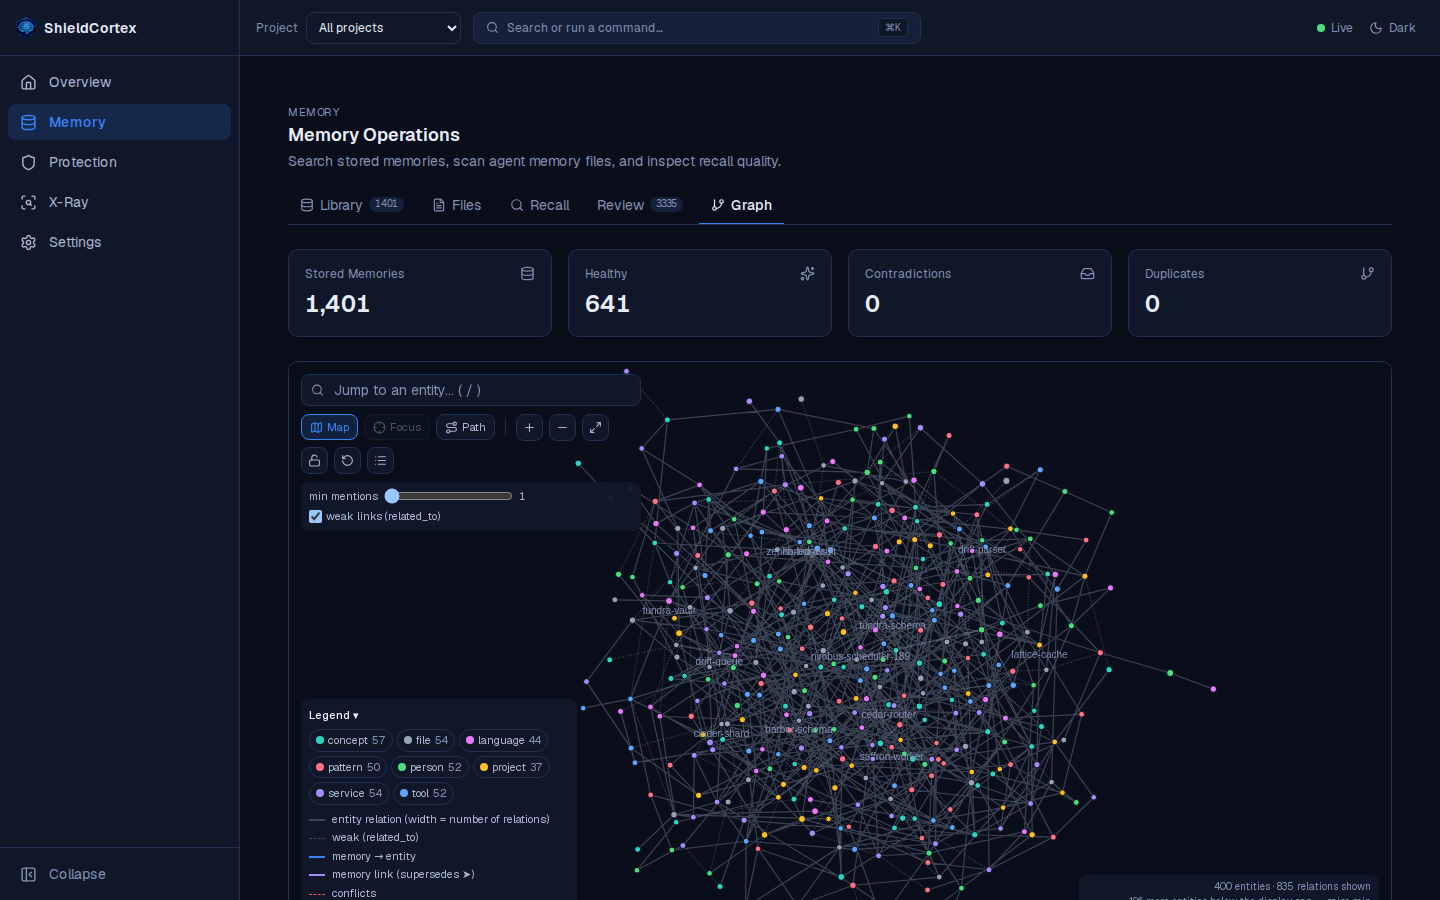
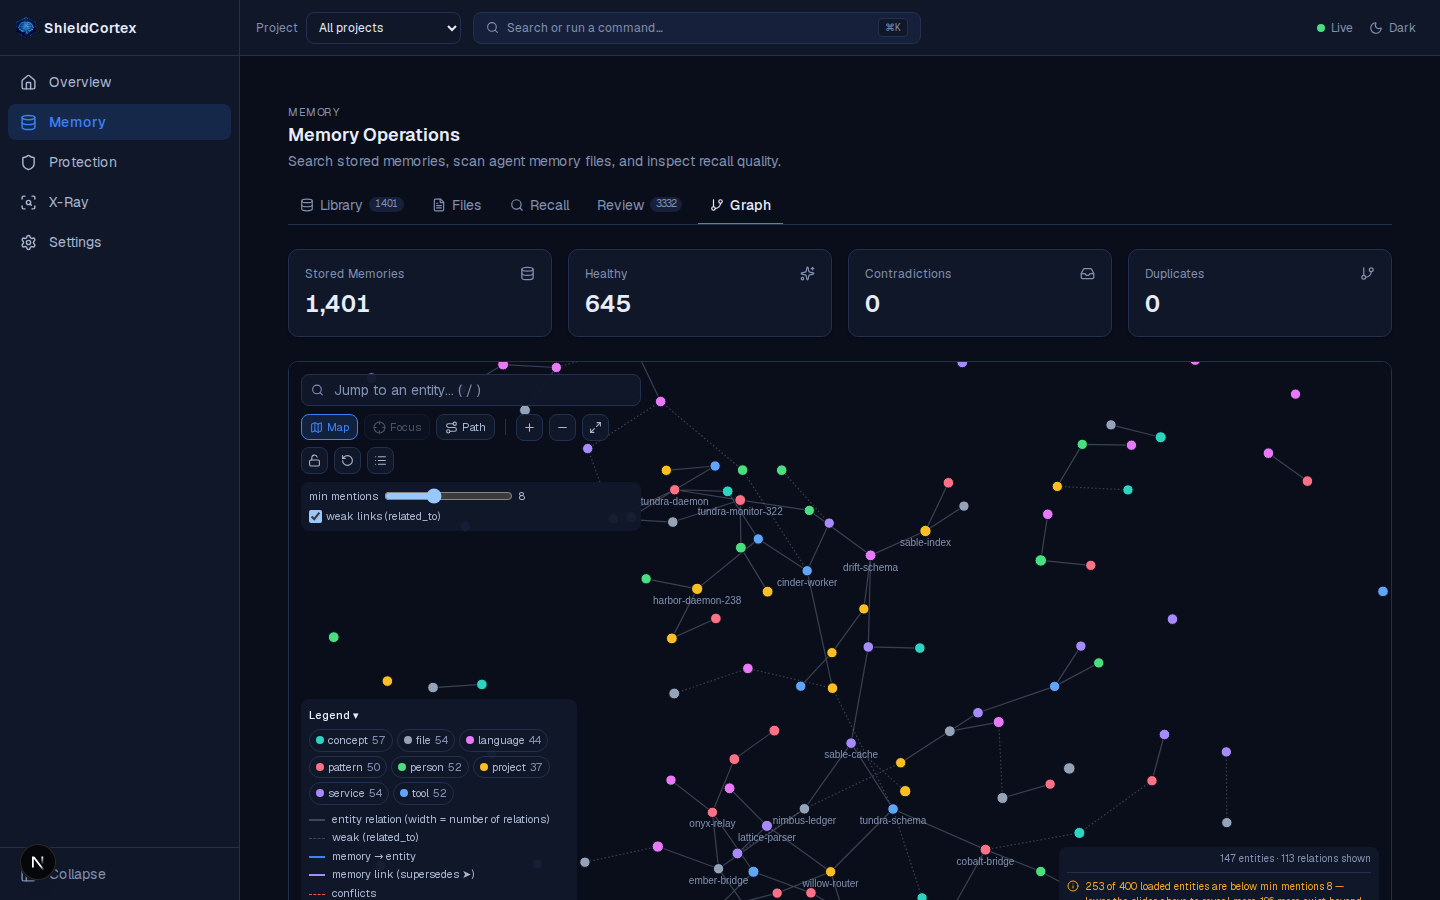
feat(dashboard-v2): step 3 polish — readable default Map, docked node list
Parent observed step3/graph-map-light.png: Map at 400 entities (minMentions=1)
was a hairball — ~3px nodes, overlapping labels, floating node list covering
canvas. Fixes:

- computeDefaultMinMentions (lib/graph/transforms.ts): derives the default
  Map threshold from the loaded entities' real memoryCount distribution
  (sorted desc, value at the target band's middle rank) instead of a fixed
  1, targeting ~120-150 visible entities. On the shipped fixture (400 loaded
  of 600 total): threshold 8 -> 147 shown. Only the default — the slider
  still overrides once touched. Unit tested (band-clamped default, real
  in-band value, no-op when already small).
- Entity node radius floor raised 3.5px -> 5.5px; label LOD count now scales
  with the visible node count (10% of nodes, clamped 10-25) instead of a
  flat 12 tuned for the old 400-node view.
- Slider max is now derived from the real loaded data (was a fixed 20, which
  could sit below a data-derived default).
- Truncation notice rewritten to be honest and actionable: separates
  "N loaded entities hidden by the min-mentions filter (lower the slider)"
  from "N more exist beyond the loaded cap (use search)" — the old copy
  conflated the two and told the user to "raise min mentions" to see more,
  which does the opposite. Rendered as a proper bordered/iconed notice, not
  plain corner text.
- Node list ("Show node list") now docks in-flow at the graph area's right
[…]

diff --git a/dashboard/src/components/graph/MemoryGraph.tsx b/dashboard/src/components/graph/MemoryGraph.tsx
@@ -5,6 +5,7 @@ import { useRouter } from 'next/navigation';
 import ForceGraph2D, { type ForceGraphMethods, type LinkObject, type NodeObject } from 'react-force-graph-2d';
 import {
   Crosshair,
+  Info,
   List,
   Lock,
   LockOpen,
@@ -30,6 +31,7 @@ import {
 import {
   buildFocusData,
   buildMapData,
+  computeDefaultMinMentions,
   entityNodeId,
   linkTooltip,
   linkWidth,
@@ -87,7 +89,11 @@ export default function MemoryGraph({ preview = false }: { preview?: boolean }) 
   const [showMemories, setShowMemories] = useState(true);
   const [showWeak, setShowWeak] = useState(true);
   const [hiddenTypes, setHiddenTypes] = useState<Set<string>>(new Set());
+  // Starts at 1 (show everything) until the real distribution arrives; the
+  // effect below raises it once to a data-derived default (never overridden
+  // again once the user touches the slider — see minMentionsTouchedRef).
   const [minMentions, setMinMentions] = useState(1);
+  const minMentionsTouchedRef = useRef(false);
   const [legendOpen, setLegendOpen] = useState(!preview);
   const [listOpen, setListOpen] = useState(false);
   const [frozen, setFrozen] = useState(false);
@@ -104,6 +110,15 @@ export default function MemoryGraph({ preview = false }: { preview?: boolean }) 
   const nbhd = useNeighbourhoodV2(focusId, { depth, includeMemories: showMemories });
   const path = useGraphPath(pathFrom?.id ?? null, pathTo?.id ?? null);
   const search = useGraphSearchV2(debouncedSearch);
+
+  // Once the real entities arrive, raise the default min-mentions threshold
+  // from the loaded distribution (see computeDefaultMinMentions) so Map
+  // opens readable instead of a 400-node hairball. Only ever applied once —
+  // after the user moves the slider, their choice sticks across refetches.
+  useEffect(() => {
+    if (preview || minMentionsTouchedRef.current || !overview.data) return;
+    setMinMentions(computeDefaultMinMentions(overview.data.entities));
+  }, [preview, overview.data]);
 
   // ── Graph data with preserved positions ──────────────────
   const liveDataRef = useRef<V2GraphData | null>(null);
@@ -177,12 +192,18 @@ export default function MemoryGraph({ preview = false }: { preview?: boolean }) 
     return adj;
   }, [graphData]);
 
-  // Label LOD: always label the top-degree nodes.
+  // Label LOD: always label the top-degree nodes at fit zoom; the rest only
+  // on hover/zoom-in (paintNode's `scale > 1.6` check below). N scales with
+  // how many nodes are actually on screen — 12 was tuned for the old
+  // 400-node hairball and looked sparse once the default Map dropped to
+  // ~130-150 (step-3 polish); ~10% of the visible set, clamped to a sane
+  // band, keeps density comparable as the min-mentions filter changes it.
   const topLabelIds = useMemo(() => {
+    const labelCount = Math.max(10, Math.min(25, Math.round(graphData.nodes.length * 0.1)));
     const byDegree = [...graphData.nodes].sort(
       (a, b) => (adjacency.get(b.id)?.size ?? 0) - (adjacency.get(a.id)?.size ?? 0),
     );
-    return new Set(byDegree.slice(0, 12).map((n) => n.id));
+    return new Set(byDegree.slice(0, labelCount).map((n) => n.id));
   }, [graphData, adjacency]);
 
   // Path highlight set.
@@ -436,7 +457,9 @@ export default function MemoryGraph({ preview = false }: { preview?: boolean }) 
   // ── Painting ─────────────────────────────────────────────
   const nodeRadius = useCallback((node: FGNode): number => {
     if (node.kind === 'memory') return 3 + node.size * 4;
-    return Math.max(3.5, Math.min(14, 3 + Math.sqrt(node.size)));
+    // Floor raised 3.5→5.5 (step-3 polish): a min-degree entity used to
+    // render as a ~3px dot at fit zoom, unreadable next to its neighbours.
+    return Math.max(5.5, Math.min(14, 4 + Math.sqrt(node.size)));
   }, []);
 
   const paintNode = useCallback(
@@ -597,16 +620,44 @@ export default function MemoryGraph({ preview = false }: { preview?: boolean }) 
     return [...types].sort();
   }, [graphData, counts]);
 
+  // Slider ceiling from the real loaded data, not a fixed 20 — a fixture or
+  // live database can easily have entities with more than 20 mentions, which
+  // would otherwise put the computed default outside the slider's range.
+  const minMentionsMax = useMemo(() => {
+    let max = 20;
+    for (const e of overview.data?.entities ?? []) if (e.memoryCount > max) max = e.memoryCount;
+    return max;
+  }, [overview.data]);
+
   const selectedNode = selectedId ? (nodeById.get(selectedId) ?? null) : null;
   const hoverTooltip = hoverLink
     ? linkTooltip(hoverLink, (id) => nodeById.get(id)?.label ?? id)
     : null;
 
+  // Two distinct, honestly-labelled reasons a Map node can be missing (never
+  // conflated into one misleading "raise min mentions" line, since raising
+  // the slider only ever hides MORE — see computeDefaultMinMentions):
+  //  1. hidden by the min-mentions filter — loaded but below the current
+  //     threshold; the slider directly controls this one.
+  //  2. omitted by the server load cap — never fetched at all; only search
+  //     reaches these.
+  const loadedEntityCount = overview.data?.entities.length ?? 0;
+  const visibleEntityCount = graphData.nodes.filter((n) => n.kind === 'entity').length;
+  const hiddenByFilter = mode === 'map' ? Math.max(0, loadedEntityCount - visibleEntityCount) : 0;
   const truncationNotice =
-    mode === 'map' && counts && counts.omittedEntities > 0
-      ? `${counts.omittedEntities} more entities below the display cap — raise min mentions or use search.`
+    mode === 'map' && counts
+      ? [
+          hiddenByFilter > 0
+            ? `${hiddenByFilter} of ${loadedEntityCount} loaded entities are below min mentions ${minMentions} — lower the slider above to reveal more`
+            : null,
+          counts.omittedEntities > 0
+            ? `${counts.omittedEntities} more exist beyond the loaded top ${loadedEntityCount} — search to jump to one directly`
+            : null,
+        ]
+          .filter(Boolean)
+          .join('. ') || null
       : mode === 'focus' && nbhd.data && nbhd.data.counts.omittedNeighbours > 0
-        ? `${nbhd.data.counts.omittedNeighbours} more neighbours not shown (capped view).`
+        ? `${nbhd.data.counts.omittedNeighbours} more neighbours not shown (capped view)`
         : null;
 
   // ── Render ───────────────────────────────────────────────
@@ -640,8 +691,11 @@ export default function MemoryGraph({ preview = false }: { preview?: boolean }) 
 
   return (
     <div
+      className={cn('relative flex overflow-hidden rounded-lg border border-[var(--sc-border)]', preview ? 'h-[240px]' : 'h-[calc(100dvh-320px)] min-h-[480px]')}
+    >
+    <div
       ref={containerRef}
-      className={cn('relative overflow-hidden rounded-lg border border-[var(--sc-border)]', preview ? 'h-[240px]' : 'h-[calc(100dvh-320px)] min-h-[480px]')}
+      className="relative min-w-0 flex-1"
       style={{ background: palette.background }}
       tabIndex={preview ? -1 : 0}
       onKeyDown={preview ? undefined : onKeyDown}
@@ -804,9 +858,12 @@ export default function MemoryGraph({ preview = false }: { preview?: boolean }) 
                   <input
                     type="range"
                     min={1}
-                    max={20}
+                    max={minMentionsMax}
                     value={minMentions}
-                    onChange={(e) => setMinMentions(Number(e.target.value))}
+                    onChange={(e) => {
+                      minMentionsTouchedRef.current = true;
+                      setMinMentions(Number(e.target.value));
+                    }}
                     aria-label="Minimum mentions to display an entity"
                   />
                   <span className="tabular-nums">{minMentions}</span>
@@ -868,7 +925,7 @@ export default function MemoryGraph({ preview = false }: { preview?: boolean }) 
           </div>
 
           {/* ── Status line (bottom-right): honest counts + truncation ── */}
-          <div className="absolute bottom-3 right-3 z-10 max-w-[300px] rounded-md bg-[var(--sc-surface)]/95 px-2 py-1 text-right text-[10px] text-[var(--sc-text-muted)]">
+          <div className="absolute bottom-3 right-3 z-10 max-w-[320px] rounded-md bg-[var(--sc-surface)]/95 px-2 py-1 text-right text-[10px] text-[var(--sc-text-muted)]">
             {overview.isLoading && 'Loading graph…'}
             {mode === 'map' && counts && (
               <span>
@@ -885,7 +942,15 @@ export default function MemoryGraph({ preview = false }: { preview?: boolean }) 
             {mode === 'focus' && nbhd.isError && (
               <span className="text-[var(--sc-warn)]">Neighbourhood unavailable — {nbhd.error instanceof Error ? nbhd.error.message : 'fetch failed'}</span>
             )}
-            {truncationNotice && <div>{truncationNotice}</div>}
+            {truncationNotice && (
+              <div
+                role="status"
+                className="mt-1.5 flex items-start gap-1.5 border-t border-[var(--sc-border)] pt-1.5 text-left text-[var(--sc-warn)]"
+              >
+                <Info size={12} aria-hidden className="mt-[1px] shrink-0" />
+                <span>{truncationNotice}.</span>
+              </div>
+            )}
           </div>
 
           {/* ── Hover link tooltip ── */}
@@ -894,68 +959,68 @@ export default function MemoryGraph({ preview = false }: { preview?: boolean }) 
               {hoverTooltip}
             </div>
           )}
-
-          {/* ── Keyboard-accessible node list (shares selection) ── */}
-          {listOpen && (
-            <div
-              className={cn(
-                'absolute top-3 z-10 flex max-h-[70%] w-56 flex-col rounded-md border border-[var(--sc-border)] bg-[var(--sc-surface)]/95 shadow-[var(--sc-shadow-card)]',
-                // Step aside for the (non-modal) drawer so both stay usable.
-                selectedNode ? 'right-3 md:right-[416px]' : 'right-3',
-              )}
-            >
-              <div className="border-b border-[var(--sc-border)] px-2 py-1 text-[11px] font-medium text-[var(--sc-text)]">
-                Nodes ({graphData.nodes.length})
-              </div>
-              <ul className="min-h-0 flex-1 overflow-y-auto py-1" aria-label="Graph nodes">
-                {[...graphData.nodes]
-                  .sort((a, b) => b.size - a.size)
-                  .slice(0, 300)
-                  .map((n) => (
-                    <li key={n.id}>
-                      <button
-                        type="button"
-                        onClick={() => {
-                          setSelectedId(n.id);
-                          if (n.x !== undefined && n.y !== undefined) fgRef.current?.centerAt(n.x, n.y, reducedMotion ? 0 : 300);
-                        }}
-                        onDoubleClick={() => n.kind === 'entity' && focusEntity(n.numericId)}
-                        className={cn(
-                          'flex w-full items-center gap-1.5 px-2 py-1 text-left text-[11px] text-[var(--sc-text-dim)] hover:bg-[var(--sc-surface-2)] focus-visible:outline-2 focus-visible:-outline-offset-2 focus-visible:outline-[var(--sc-focus)]',
-                          selectedId === n.id && 'bg-[var(--sc-primary-soft)] text-[var(--sc-text)]',
-                        )}
-                      >
-                        <span
-                          aria-hidden
-                          className={cn('h-2 w-2 shrink-0', n.kind === 'entity' ? 'rounded-full' : 'rounded-sm')}
-                          style={{ background: n.kind === 'entity' ? entityTypeHex(theme, n.subtype) : semanticHex(theme, memoryCategorySemantic(n.subtype)) }}
-                        />
-                        <span className="truncate">{n.label}</span>
-                      </button>
-                    </li>
-                  ))}
-              </ul>
-              <div className="border-t border-[var(--sc-border)] px-2 py-1 text-[10px] text-[var(--sc-text-muted)]">
-                <Kbd>Enter</Kbd> select · double-click to focus
-              </div>
-            </div>
-          )}
-
-          <GraphDrawer
-            node={selectedNode}
-            neighbourhood={nbhd.data}
-            onClose={() => setSelectedId(null)}
-            onFocus={focusEntity}
-            onSelectEntity={(id) => setSelectedId(entityNodeId(id))}
-            onPathFrom={(id) => {
-              const n = nodeById.get(entityNodeId(id));
-              setMode('path');
-              setPathFrom({ id, name: n?.label ?? `#${id}` });
-              setPathTo(null);
-              setSelectedId(null);
-            }}
-          />
         </>
+      )}
+    </div>
+
+      {/* ── Node list: docked in-flow at the graph area's right edge (step-3
+          polish) — a flex sibling of the canvas, not an absolute overlay, so
+          it shrinks the canvas via the ResizeObserver above instead of ever
+          floating on top of nodes. ── */}
+      {!preview && listOpen && (
+        <div className="flex w-56 shrink-0 flex-col border-l border-[var(--sc-border)] bg-[var(--sc-surface)]">
+          <div className="border-b border-[var(--sc-border)] px-2 py-1 text-[11px] font-medium text-[var(--sc-text)]">
+            Nodes ({graphData.nodes.length})
+          </div>
+          <ul className="min-h-0 flex-1 overflow-y-auto py-1" aria-label="Graph nodes">
+            {[...graphData.nodes]
+              .sort((a, b) => b.size - a.size)
+              .slice(0, 300)
+              .map((n) => (
+                <li key={n.id}>
+                  <button
+                    type="button"
+                    onClick={() => {
+                      setSelectedId(n.id);
+                      if (n.x !== undefined && n.y !== undefined) fgRef.current?.centerAt(n.x, n.y, reducedMotion ? 0 : 300);
+                    }}
+                    onDoubleClick={() => n.kind === 'entity' && focusEntity(n.numericId)}
+                    className={cn(
+                      'flex w-full items-center gap-1.5 px-2 py-1 text-left text-[11px] text-[var(--sc-text-dim)] hover:bg-[var(--sc-surface-2)] focus-visible:outline-2 focus-visible:-outline-offset-2 focus-visible:outline-[var(--sc-focus)]',
+                      selectedId === n.id && 'bg-[var(--sc-primary-soft)] text-[var(--sc-text)]',
+                    )}
+                  >
+                    <span
+                      aria-hidden
+                      className={cn('h-2 w-2 shrink-0', n.kind === 'entity' ? 'rounded-full' : 'rounded-sm')}
+                      style={{ background: n.kind === 'entity' ? entityTypeHex(theme, n.subtype) : semanticHex(theme, memoryCategorySemantic(n.subtype)) }}
+                    />
+                    <span className="truncate">{n.label}</span>
+                  </button>
+                </li>
+              ))}
+          </ul>
+          <div className="border-t border-[var(--sc-border)] px-2 py-1 text-[10px] text-[var(--sc-text-muted)]">
+            <Kbd>Enter</Kbd> select · double-click to focus
+          </div>
+        </div>
+      )}
+
+      {!preview && (
+        <GraphDrawer
+          node={selectedNode}
+          neighbourhood={nbhd.data}
+          onClose={() => setSelectedId(null)}
+          onFocus={focusEntity}
+          onSelectEntity={(id) => setSelectedId(entityNodeId(id))}
+          onPathFrom={(id) => {
+            const n = nodeById.get(entityNodeId(id));
+            setMode('path');
+            setPathFrom({ id, name: n?.label ?? `#${id}` });
+            setPathTo(null);
+            setSelectedId(null);
+          }}
+        />
       )}
     </div>
   );

diff --git a/dashboard/src/lib/graph/transforms.ts b/dashboard/src/lib/graph/transforms.ts
@@ -139,6 +139,33 @@ export interface V2GraphData {
 export const entityNodeId = (id: number): string => `e:${id}`;
 export const memoryNodeId = (id: number): string => `m:${id}`;
 
+// ── Map default (step-3 polish, 2026-09-13) ─────────────────
+
+/** Target band for the number of entities the default Map shows at once. */
+export const MAP_DEFAULT_TARGET_MIN = 120;
+export const MAP_DEFAULT_TARGET_MAX = 150;
+
+/**
+ * Pick a default `minMentions` for Map mode from the real memoryCount
+ * distribution of the loaded entities (not a hardcoded constant): at 400
+ * loaded entities and a fixed minMentions of 1, Map painted a hairball —
+ * every node ~3px, labels overlapping. Rule: sort the loaded entities'
+ * memoryCount descending and read off the value at the rank in the middle of
+ * the target band (≈135th); filtering with `memoryCount >= that value`
+ * (`buildMapData`'s existing `>=` semantics) then keeps roughly that many
+ * entities, landing inside [MAP_DEFAULT_TARGET_MIN, MAP_DEFAULT_TARGET_MAX]
+ * for the shipped fixture (400 loaded → threshold 8 → 147 shown). Below the
+ * target band there is nothing to trim, so show everything (threshold 1).
+ * This is only the *default* — the min-mentions slider still overrides it.
+ */
+export function computeDefaultMinMentions(entities: Array<{ memoryCount: number }>): number {
+  if (entities.length <= MAP_DEFAULT_TARGET_MAX) return 1;
+  const counts = entities.map((e) => e.memoryCount).sort((a, b) => b - a);
+  const targetRank = Math.floor((MAP_DEFAULT_TARGET_MIN + MAP_DEFAULT_TARGET_MAX) / 2);
+  const idx = Math.min(targetRank, counts.length - 1);
+  return Math.max(1, counts[idx]);
+}
+
 // ── Builders ───────────────────────────────────────────────
 
 function bundleTriples(

diff --git a/dashboard/src/lib/graph/transforms.test.tsx b/dashboard/src/lib/graph/transforms.test.tsx
@@ -1,8 +1,11 @@
 import {
   buildFocusData,
   buildMapData,
+  computeDefaultMinMentions,
   linkTooltip,
   linkWidth,
+  MAP_DEFAULT_TARGET_MAX,
+  MAP_DEFAULT_TARGET_MIN,
   withPreservedPositions,
   type NeighbourhoodPayload,
   type OverviewPayload,
@@ -99,6 +102,26 @@ describe('withPreservedPositions', () => {
     expect(next.nodes[0]).not.toBe(base.nodes[0]); // fresh clone, cache untouched
     expect(base.nodes[0].x).toBeUndefined();
     expect(next.nodes[1].x).toBeUndefined();
+  });
+});
+
+describe('computeDefaultMinMentions', () => {
+  it('shows everything when the loaded set is already within the target band', () => {
+    expect(computeDefaultMinMentions(overview.entities)).toBe(1);
+    const exactlyMax = Array.from({ length: MAP_DEFAULT_TARGET_MAX }, (_, i) => ({ memoryCount: i + 1 }));
+    expect(computeDefaultMinMentions(exactlyMax)).toBe(1);
+  });
+
+  it('picks a real distribution value that lands the default inside the target band', () => {
+    // 400 entities, memoryCount uniformly spread 1..40 (10 entities per value)
+    // — a stand-in for the shipped fixture's roughly-bell-shaped mention counts.
+    const entities = Array.from({ length: 400 }, (_, i) => ({ memoryCount: 1 + (i % 40) }));
+    const threshold = computeDefaultMinMentions(entities);
+    const visible = entities.filter((e) => e.memoryCount >= threshold).length;
+    expect(visible).toBeGreaterThanOrEqual(MAP_DEFAULT_TARGET_MIN);
+    expect(visible).toBeLessThanOrEqual(MAP_DEFAULT_TARGET_MAX + 10); // ties can overshoot slightly
+    // The threshold must be a value that actually occurs in the data (never invented).
+    expect(entities.some((e) => e.memoryCount === threshold)).toBe(true);
   });
 });
 
